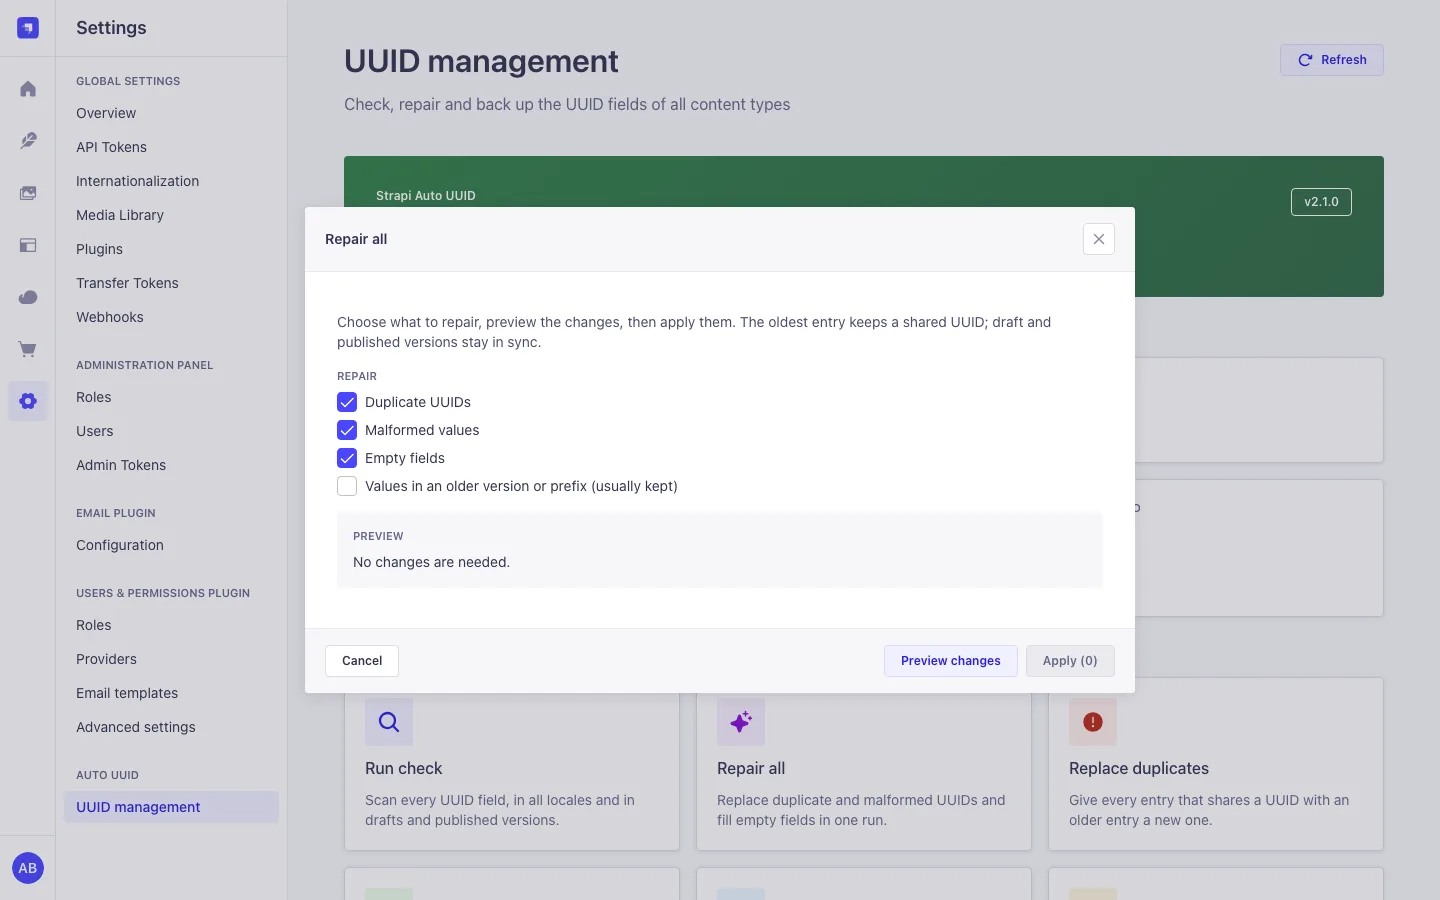
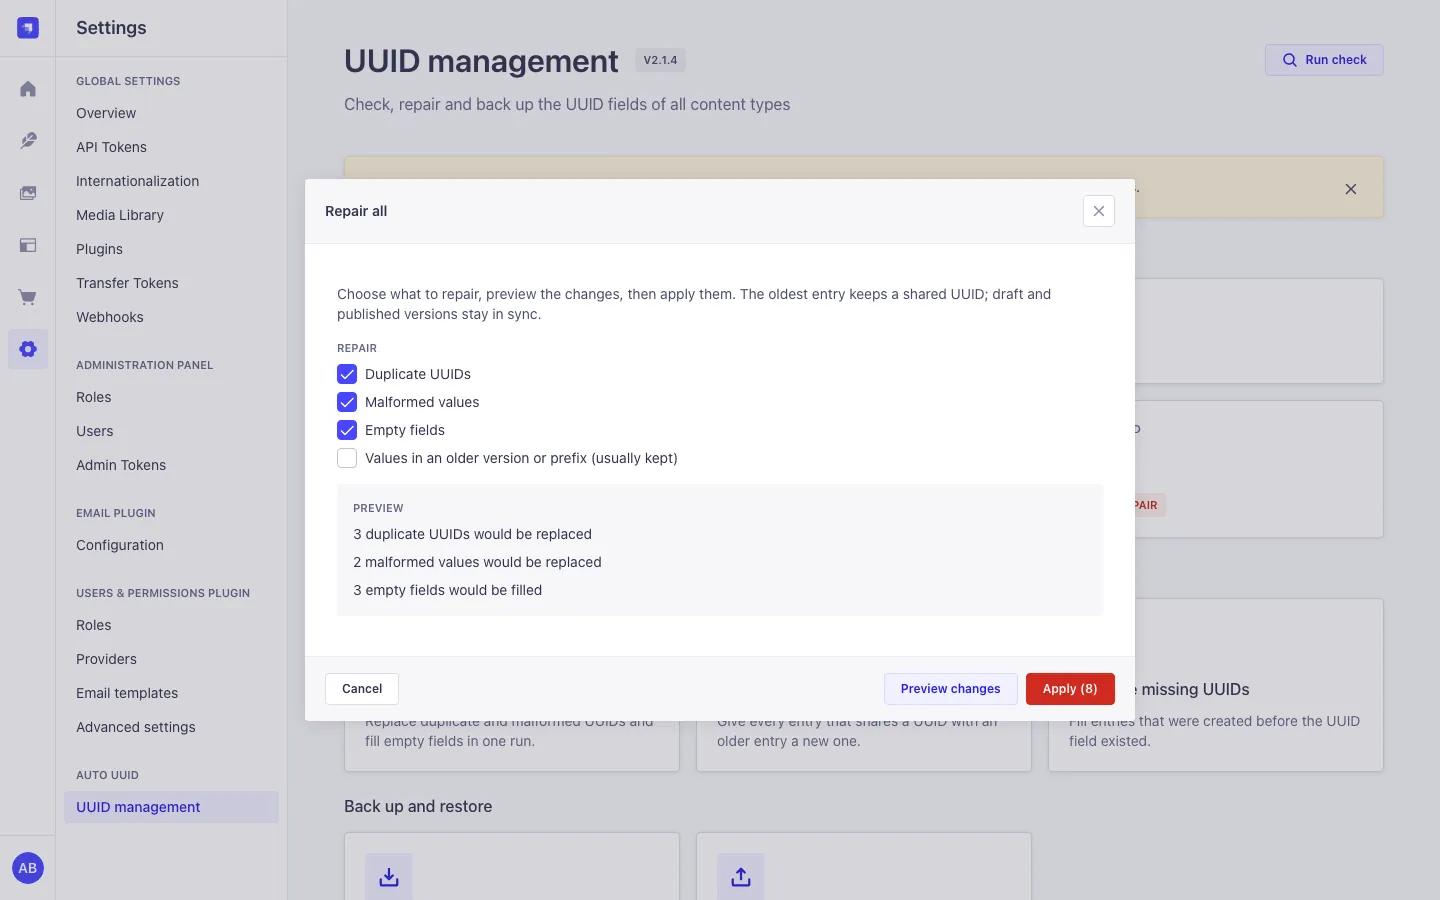
docs: refresh the UUID management screenshots for 2.1.4
The admin page lost its green banner in 2.1.4: the version is a badge next
to the title, one "Run check" button sits in the header, and the cards are
grouped into "Repair" and "Back up and restore". Retake the settings page in
light, dark and at 390 px, the "Repair all" preview and the social preview
image from an isolated Strapi 5.64.0 host with synthetic content types that
have duplicate, empty and malformed UUIDs. Same file names, sizes and
formats; alt text and one caption now describe the new page.

diff --git a/docs/site/index.html b/docs/site/index.html
@@ -281,7 +281,7 @@
               fetchpriority="high"
               width="1440"
               height="900"
-              alt="UUID management page in the Strapi admin with counts for content types, UUID fields, entries, duplicates, empty and malformed values, and repair buttons"
+              alt="UUID management page in the Strapi admin with a Run check button, counts for content types, UUID fields, entries, duplicates, empty and malformed values, and the Repair actions"
             />
           </figure>
         </div>
@@ -648,9 +648,9 @@ strapi.log.info(ticket.ticketId); // tkt_019a5f3c-...</code></pre>
                   width="1440"
                   height="900"
                   loading="lazy"
-                  alt="UUID management page with status cards and repair actions"
+                  alt="UUID management page with a repair notice, status cards and the Repair actions"
               /></a>
-              <figcaption>UUID management: status and repair actions</figcaption>
+              <figcaption>UUID management: check and repair</figcaption>
             </figure>
           </div>
           <div class="gallery gallery-mobile">

diff --git a/README.md b/README.md
@@ -15,7 +15,7 @@ Give every Strapi 5 entry a UUID that the server generates, that no other docume
 
 Live docs: https://schero94.github.io/strapi-auto-uuid/
 
-![UUID management page in the Strapi admin panel with counts per content type and repair actions](https://schero94.github.io/strapi-auto-uuid/img/settings-light.webp)
+![UUID management page in the Strapi admin panel with a Run check button, overview counts that flag duplicate, empty and malformed UUIDs, and the Repair actions](https://schero94.github.io/strapi-auto-uuid/img/settings-light.webp)
 
 ```text
 POST /api/tickets   { "data": { "title": "Printer offline" } }
